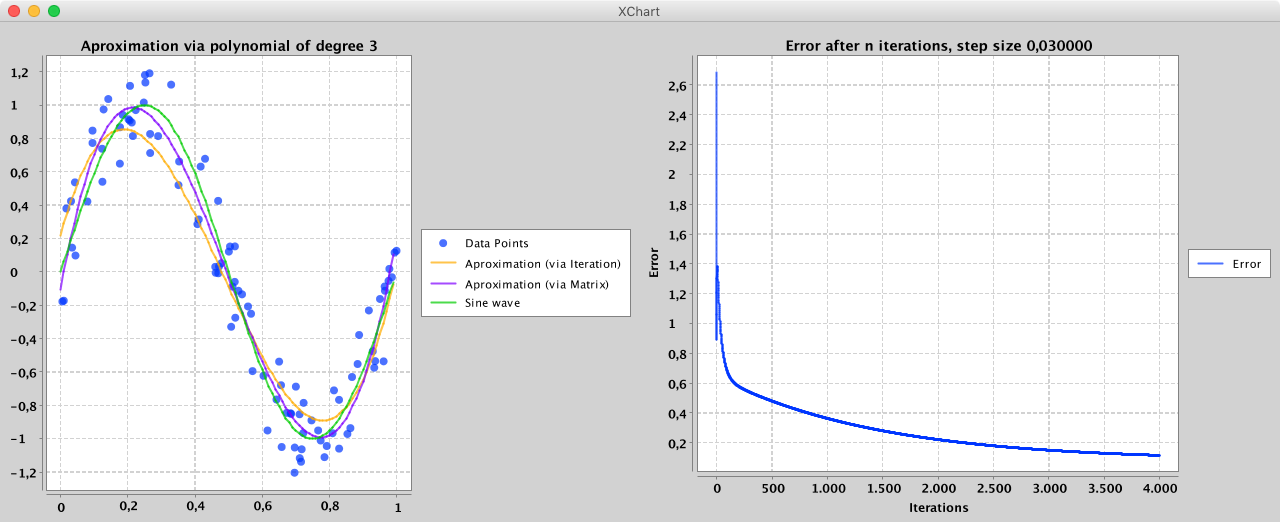
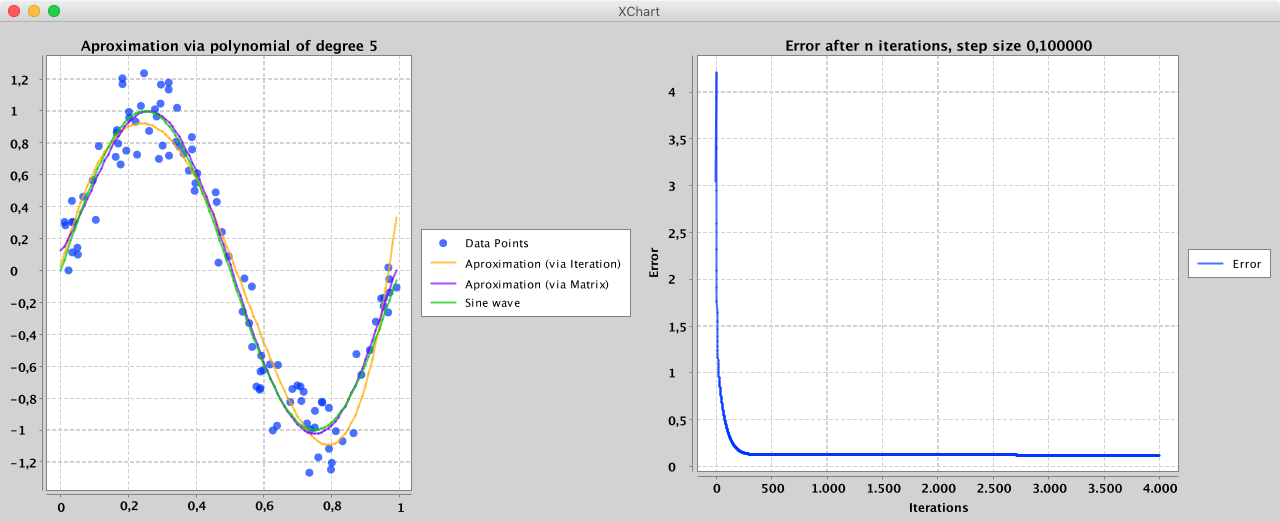
add readme

diff --git a/machine-learning/übungen/week1/readme.md b/machine-learning/übungen/week1/readme.md
@@ -1,0 +1,10 @@
+# Gradient Ascent Implementation
+
+![Example polygone aproximation](./example.png)
+
+## Resulting Polynomes
+
+
+f_itr(x) = 0.031767987732920076*x^0 + 7.573337387150479*x^1 + -15.951620373046708*x^2 + -2.4384047417973336*x^3 + 7.068569618767389*x^4 + 4.219357841007244*x^5
+
+f_mtx(x) = f0.12423788007277264*x^0 + 2.726975997733779*x^1 + 27.183599808165678*x^2 + -135.28938939890563*x^3 + 171.93214472809962*x^4 + -66.61422340275125*x^5
